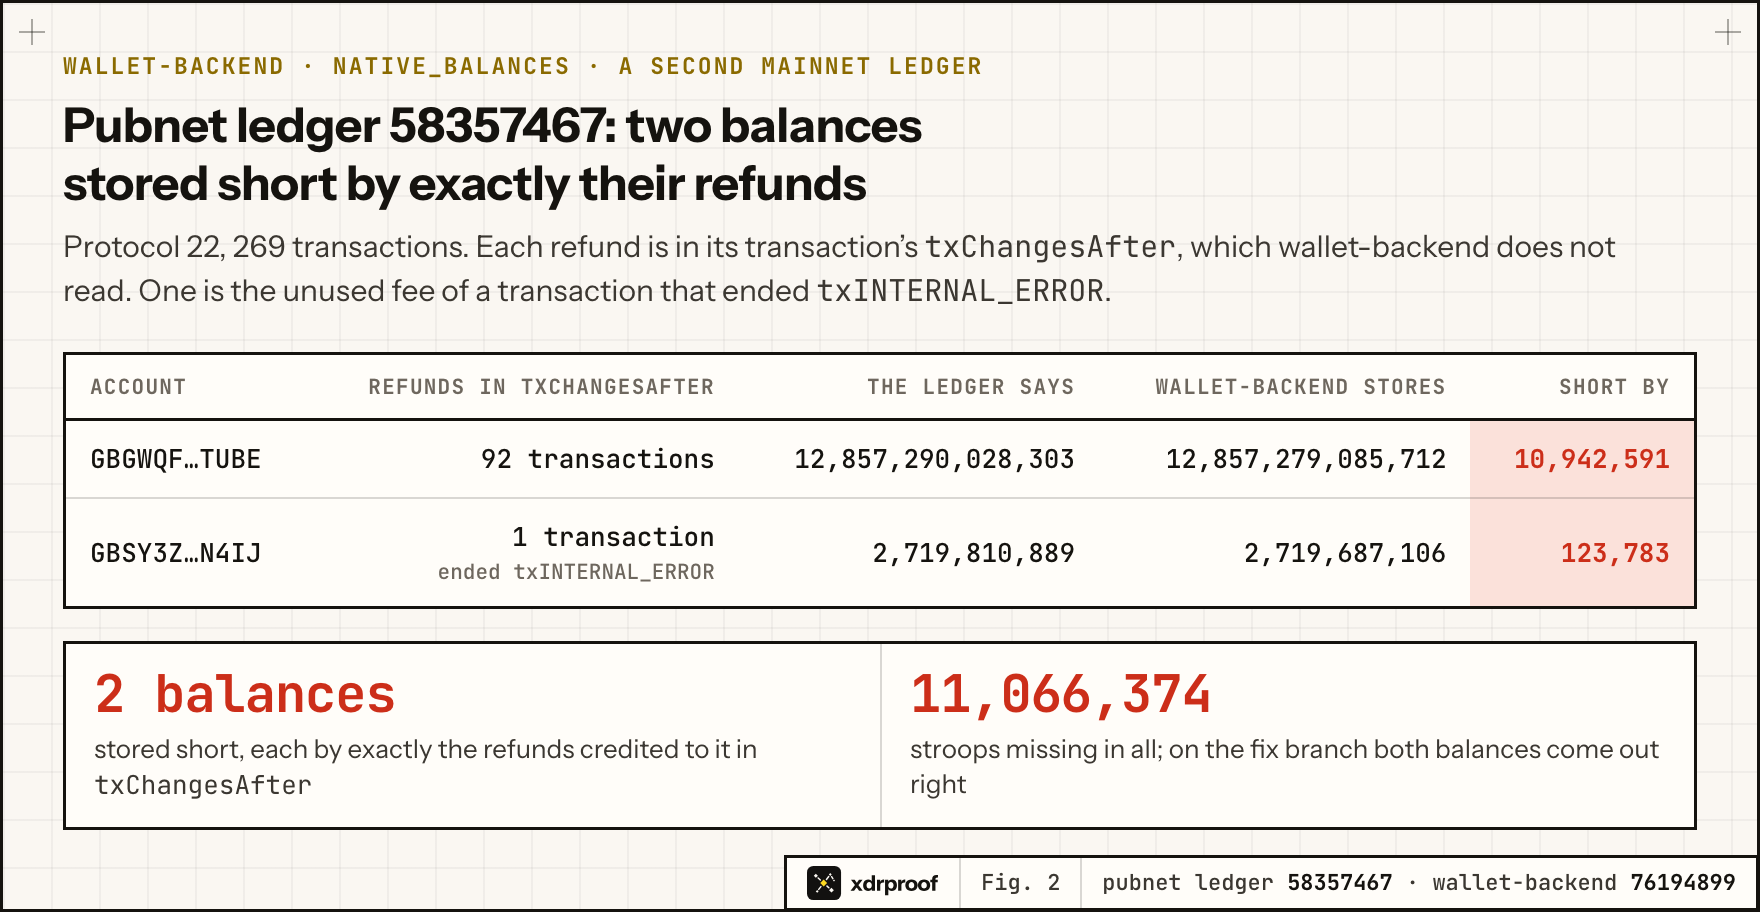
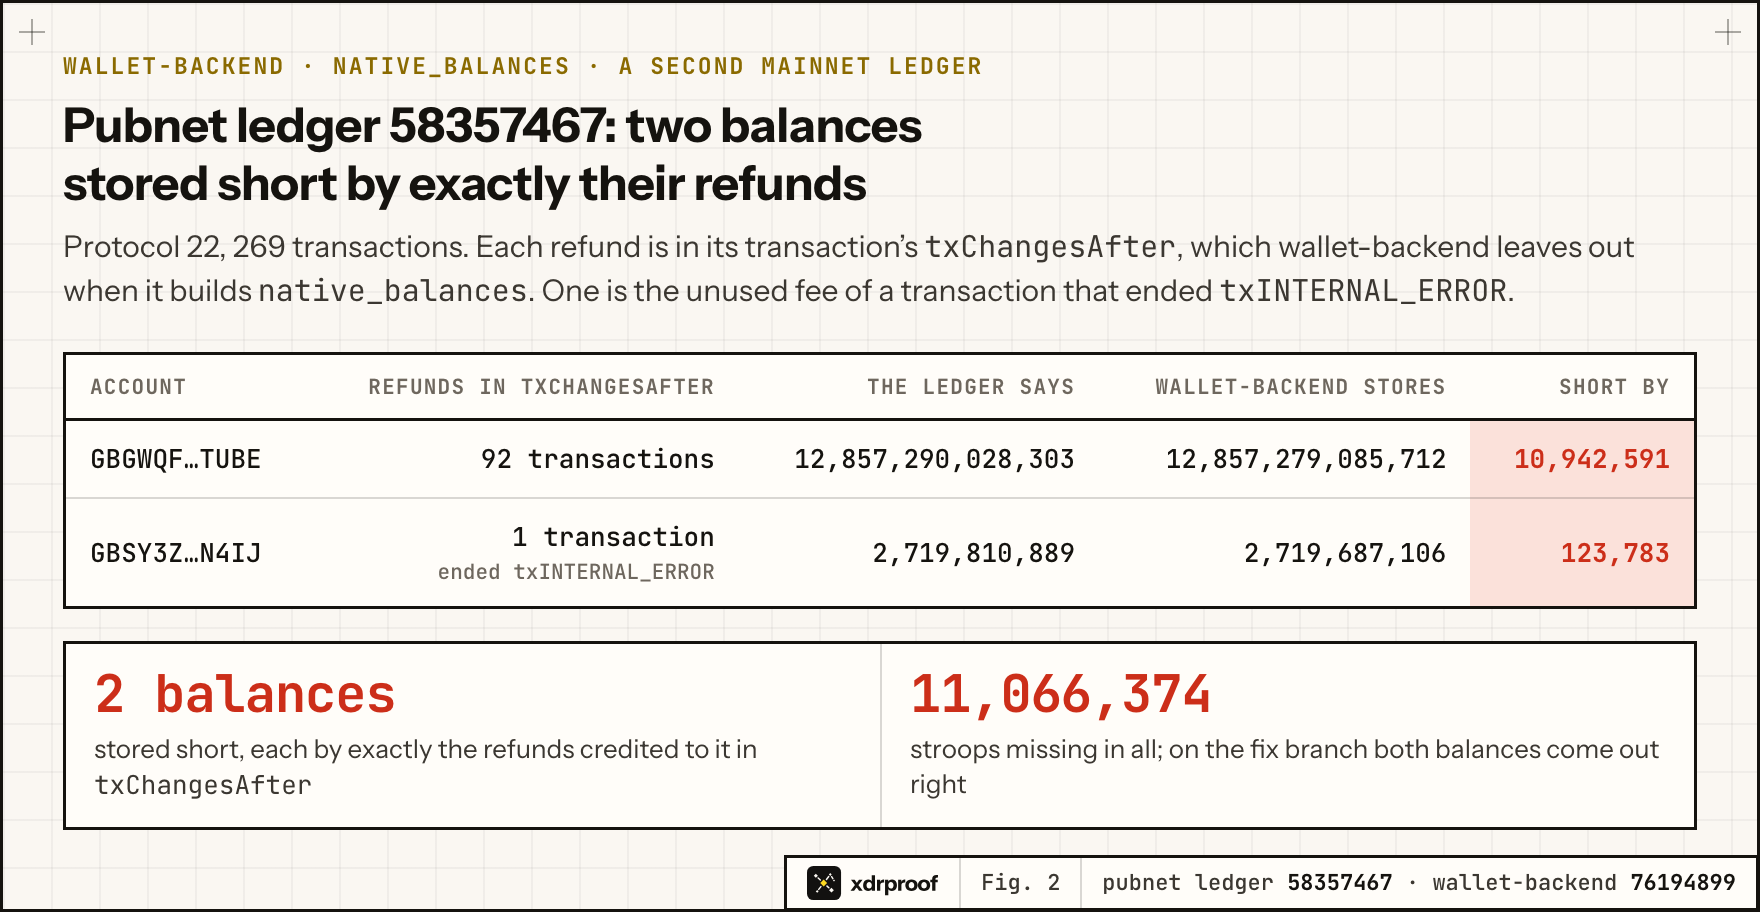
Second-ledger figure: say it is native_balances that leaves out txChangesAfter

Changed region(s): [[0.0312, 0.2456, 0.9375, 0.3377]]

diff --git a/findings/figures/build.py b/findings/figures/build.py
@@ -113,7 +113,7 @@ def f3_second_figure():
     body = f"""<div class="sheet">{crosses()}
 <div class="eyebrow">wallet-backend · native_balances · a second mainnet ledger</div>
 <h1>Pubnet ledger 58357467: two balances stored short by exactly their refunds</h1>
-<p class="sub">Protocol 22, 269 transactions. Each refund is in its transaction&#8217;s <span class="mono">txChangesAfter</span>, which wallet&#8209;backend does not read. One is the unused fee of a transaction that ended <span class="mono">txINTERNAL_ERROR</span>.</p>
+<p class="sub">Protocol 22, 269 transactions. Each refund is in its transaction&#8217;s <span class="mono">txChangesAfter</span>, which wallet&#8209;backend leaves out when it builds <span class="mono">native_balances</span>. One is the unused fee of a transaction that ended <span class="mono">txINTERNAL_ERROR</span>.</p>
 <div class="tbl"><table>
  <tr><th>Account</th><th>Refunds in txChangesAfter</th><th>The ledger says</th><th>wallet&#8209;backend stores</th><th>Short by</th></tr>
  <tr><td>GBGWQF…TUBE</td><td>92 transactions</td><td>12,857,290,028,303</td><td>12,857,279,085,712</td><td class="short">10,942,591</td></tr>
